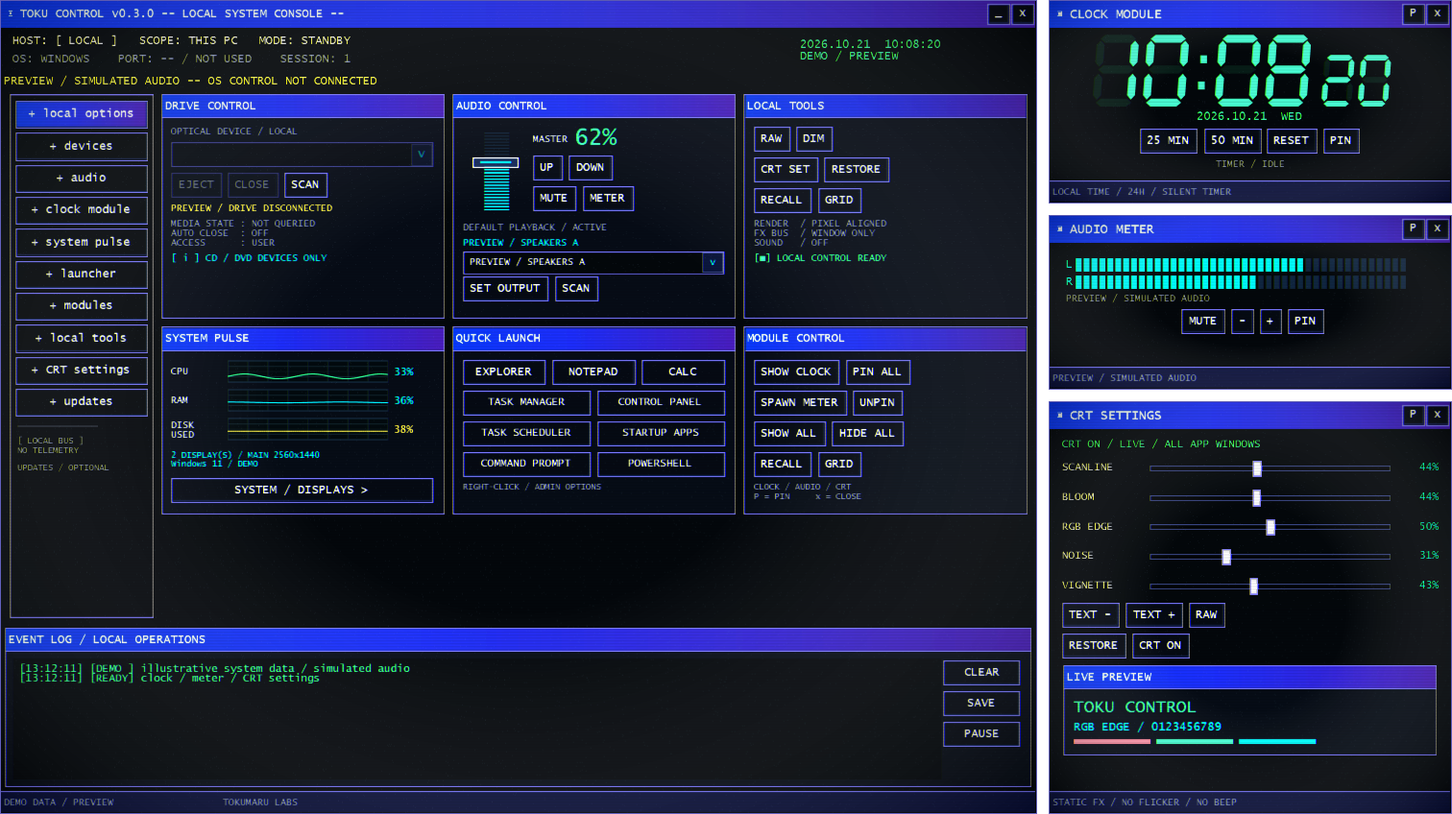
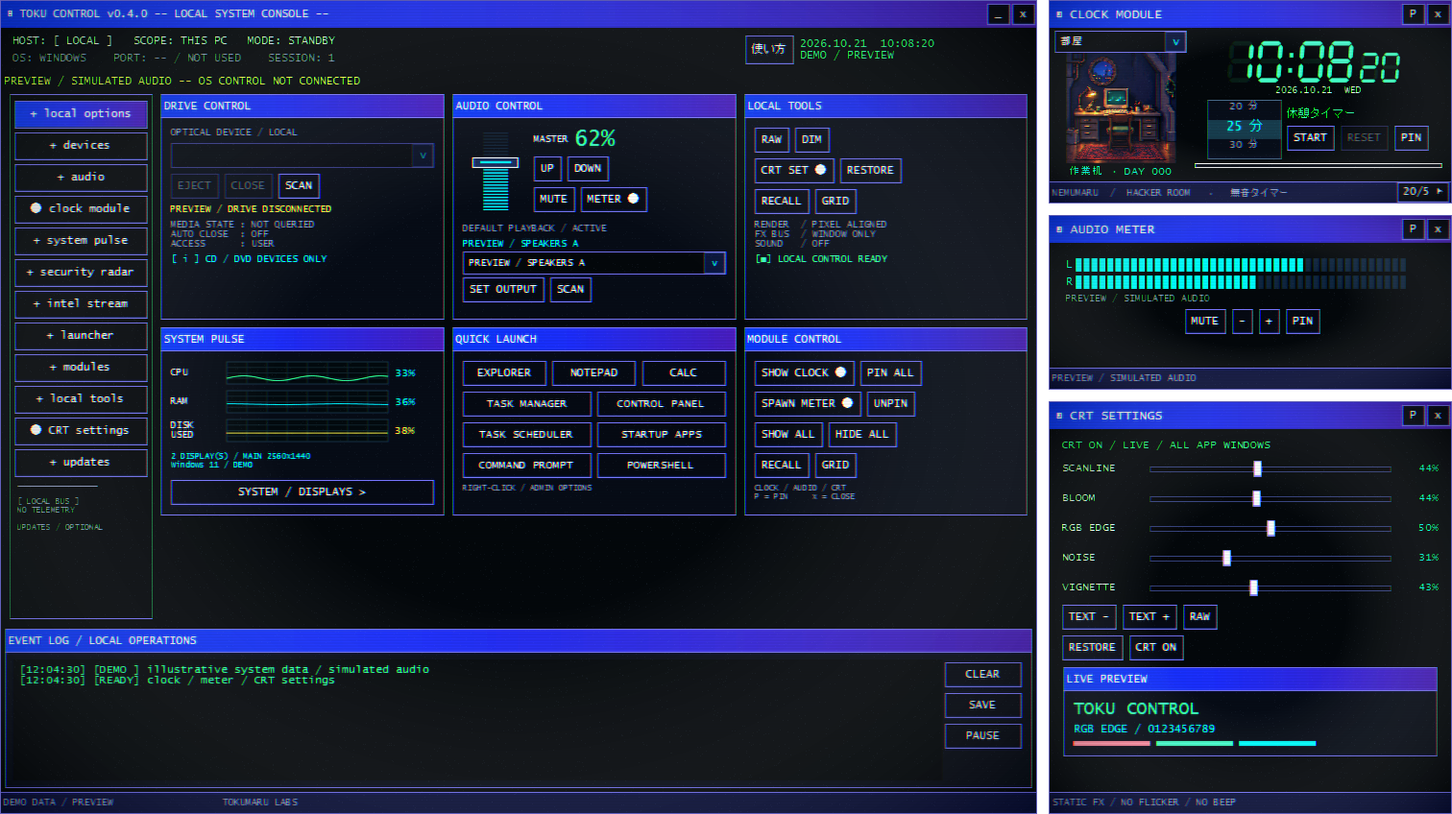
Feature the TOKU CONTROL v0.4.0 Windows release in English and Japanese

diff --git a/ja/toku-control/index.html b/ja/toku-control/index.html
@@ -29,8 +29,8 @@
   "name": "TOKU CONTROL",
   "applicationCategory": "UtilitiesApplication",
   "operatingSystem": "Windows x64",
-  "softwareVersion": "0.3.0",
-  "downloadUrl": "https://github.com/tokumaru-labs/toku-control/releases/download/v0.3.0/TOKU-CONTROL-v0.3.0-win-x64.zip",
+  "softwareVersion": "0.4.0",
+  "downloadUrl": "https://github.com/tokumaru-labs/toku-control/releases/download/v0.4.0/TOKU-CONTROL-v0.4.0-win-x64.zip",
   "license": "https://github.com/tokumaru-labs/toku-control/blob/main/LICENSE",
   "publisher": {
     "@type": "Organization",
@@ -45,32 +45,33 @@
 <main id="main"><article class="wrap wrap--wide control-page">
 <nav class="crumbs" aria-label="パンくずリスト"><a href="/ja/">Tokumaru Labs</a> / TOKU CONTROL</nav>
 <div class="seg" aria-hidden="true"><span></span><span></span><span></span><span></span></div>
-<header class="site-head"><p class="brand">TOKU CONTROL</p><h1 class="guide-title">デスクトップに、<br>小さな操作室を。</h1><p class="tagline">Windowsアプリ · v0.3.0 · 無料</p></header>
+<header class="site-head"><p class="brand">TOKU CONTROL</p><h1 class="guide-title">デスクトップに、<br>小さな操作室を。</h1><p class="tagline">Windowsアプリ · v0.4.0 · 無料</p></header>
 <p class="lead">音量・液晶時計・メーター・Windowsのシステム情報を、90年代風のローカル操作盤に。青いタイトルバーと緑の数字で、いつもの操作をまとめます。</p>
-<div class="page-actions"><a class="btn btn--primary" href="https://github.com/tokumaru-labs/toku-control/releases/download/v0.3.0/TOKU-CONTROL-v0.3.0-win-x64.zip">Windows版をダウンロード</a><a class="btn" href="#how-to">起動までの3ステップ</a></div>
-<p class="meta">Windows x64 · ZIP / 69.6 MB · .NET同梱 · Windows 11で検証</p><p class="lang-note">初期公開版のためコード署名はありません。Windowsに発行元不明と表示される場合があります。信頼できる配布元から取得してください。インストーラー・アカウントは不要で、本体は管理者権限なしで動きます。対応ツールの管理者起動を選んだ時だけ、WindowsのUACで確認します。</p>
+<div class="page-actions"><a class="btn btn--primary" href="https://github.com/tokumaru-labs/toku-control/releases/download/v0.4.0/TOKU-CONTROL-v0.4.0-win-x64.zip">Windows版をダウンロード</a><a class="btn" href="#how-to">起動までの3ステップ</a></div>
+<p class="meta">Windows x64 · ZIP / 72.1 MB · .NET同梱 · Windows 11で検証</p><p class="lang-note">この配布版はコード署名なしです。Windowsに発行元不明と表示される場合があります。信頼できる配布元から取得してください。インストーラー・アカウントは不要で、本体は管理者権限なしで動きます。対応ツールの管理者起動を選んだ時だけ、WindowsのUACで確認します。</p>
 <figure class="product-figure"><a href="/assets/products/toku-control/overview.png"><img class="shot" src="/assets/products/toku-control/overview.png" width="1512" height="848" decoding="async" alt="TOKU CONTROLのメイン画面と、右側に縦積みした時計・オーディオメーター・CRT設定。"></a><figcaption>実際のWPF画面をプレビューモードで描画。PC情報・音声の表示値は紹介用のデモです。</figcaption></figure>
 <h2 id="features">いつもの操作を、ひとつの場所に</h2><ul class="feature-list"><li><strong>再生音量と出力先：</strong>音量・ミュートを調整し、選んだ再生出力へ切り替えます。対応機器ではピークをL/Rで表示します。</li>
-<li><strong>液晶デジタル時計：</strong>太い時・分と小さな秒、日付、25/50分の無音タイマー。</li>
+<li><strong>液晶デジタル時計：</strong>5〜120分の休憩タイマーと、20分集中・5分休憩を繰り返す無音タイマー。「部屋」「TRACE 端末」「宵環曼荼羅」の3つから表示を選べます。</li>
 <li><strong>PCとモニター情報：</strong>CPU・RAMの履歴、ドライブ容量使用率、Windows・機器の情報、使用中モニターの解像度・Hz・拡大率など。</li>
-<li><strong>一緒に動く小窓：</strong>SHOW ALLでメイン右に3つの小窓を縦積み。メインのタイトルバーをつかむと、表示中の小窓も一緒に動きます。</li>
+<li><strong>一緒に動く小窓：</strong>SHOW ALLでメイン右に3つの小窓を縦積み。操作盤に接した小窓は一緒に動き、離して置いた小窓はその位置に残ります。</li>
 <li><strong>Quick Launch：</strong>既存の7項目にコマンド プロンプトとWindows標準搭載のWindows PowerShellを追加。両シェル・メモ帳・タスク マネージャー・タスク スケジューラは、右クリック（またはShift+F10）から<strong>「管理者として実行」</strong>を選べます。WindowsのUACで確認し、キャンセルしても本体は継続します。</li>
-<li><strong>アプリ内更新（v0.3.0）：</strong>新しい正式版があると「New version available」を表示。「YES / UPDATE」で取得・検証・更新・再起動、「LATER」で今回は見送れます。+ updatesから手動確認や起動時確認のOFFもできます。</li>
+<li><strong>アプリ内更新：</strong>新しい正式版があると「New version available」を表示。「YES / UPDATE」で取得・検証・更新・再起動、「LATER」で今回は見送れます。+ updatesから手動確認や起動時確認のOFFもできます。</li>
 <li><strong>調整できるCRT表現：</strong>走査線・発光・色ずれ・ノイズ・減光を即時調整。RAWで効果をOFFにできます。</li></ul>
-<h2>v0.3.0以降の開発状況</h2>
-<p>このページからダウンロードできるのはv0.3.0です。開発版のSecurity Radarでは、Windowsの状態や直近のDefender検出履歴を手動で確認できます。Intel Streamでは取得をオンにした配信元のニュースを読めます。休憩時計にはねむまるの部屋・TRACE端末・宵環曼荼羅と20分集中／5分休憩のタイマーが加わり、操作盤から離した小窓をその場に置けるようになりました。</p>
-<p>Security Radarの任意機能「Autorunsc」では、このPCの自動起動登録を2回分比較できます。保存済みCSVを開くか、Microsoftから別途入手したAutorunsc 14.3を選んで通常権限で1回取得します。<a href="https://github.com/tokumaru-labs/toku-control/pull/13">Autorunscの実装と検証</a> · <a href="https://github.com/tokumaru-labs/toku-control/pull/12">これまでに統合した変更</a></p>
-<h2 id="how-to">ダウンロードして、起動する</h2><ol class="guide-steps"><li><strong>Windows版ZIPを取得</strong>上のダウンロードボタンから取得できます。<a href="https://github.com/tokumaru-labs/toku-control/releases/tag/v0.3.0">リリースページ</a>には、照合用のSHA-256チェックサムとソースコードもあります。</li>
+<h2>Security Radar と Intel Stream</h2>
+<p><strong>Security Radar</strong> で「READ / REFRESH」を押すと、Windowsの保護状態や直近のMicrosoft Defender検出履歴、その根拠を確認できます。読み取った情報は端末内で表示します。</p>
+<p><strong>自動起動の比較</strong>では、保存済みCSVを開くか、Microsoftから別途入手したAutorunsc 14.3を自分で選んで通常権限で1回読み取ります。基準にした一覧と次の一覧を比べると、追加・削除・変更された項目が分かります。自動修復やVirusTotalへの送信は行いません。</p>
+<p><strong>Intel Stream</strong> は選んだ配信元の見出しを操作盤で読む機能です。オンライン取得は初期状態でオフです。</p>
+<h2 id="how-to">ダウンロードして、起動する</h2><ol class="guide-steps"><li><strong>Windows版ZIPを取得</strong>上のダウンロードボタンから取得できます。<a href="https://github.com/tokumaru-labs/toku-control/releases/tag/v0.4.0">リリースページ</a>には、照合用のSHA-256チェックサムとソースコードもあります。</li>
 <li><strong>ZIPをすべて展開</strong>一番上のTokuControl.exe・Update.exe・currentフォルダーなど、展開したファイル一式を保持してください。</li>
 <li><strong>一番上のTokuControl.exeを起動</strong>SHOW ALLで小窓を整列。出力先は選択後にSET OUTPUTで切り替えます。メインの×で全体を終了します。</li></ol>
 <figure class="product-figure"><a href="/assets/products/toku-control/system.png"><img class="shot" src="/assets/products/toku-control/system.png" width="1080" height="848" loading="lazy" decoding="async" alt="Windows・CPU・メモリーなどのPC情報と、2台のモニター情報を並べたデモ画面。"></a><figcaption>SYSTEM PULSE → SYSTEM / DISPLAYSで詳細を表示。モニターを変更した後はREFRESH INFOで再取得します。</figcaption></figure>
-<h2>以前の版からの更新</h2><p>v0.2.3以前からは、最初の1回だけこのZIPを新しいフォルダーへ展開し、一番上のEXEを起動してください。設定は引き継がれ、次回以降はアプリ内から更新できます。書き込み可能なローカルフォルダーを使い、更新前に他のTOKU CONTROLを終了してください。個人ファイルはcurrentフォルダーへ入れないでください。取得中はCANCELで中止でき、通信・検証に失敗しても現在の版を継続できます。</p>
+<h2>以前の版からの更新</h2><p>v0.3.0を使っている場合は「+ updates」で更新を確認し、「YES / UPDATE」を選ぶと設定を引き継いで再起動します。v0.2.3以前からは、最初の1回だけこのZIPを新しいフォルダーへ展開し、一番上のEXEを起動してください。設定は引き継がれ、次回以降はアプリ内から更新できます。書き込み可能なローカルフォルダーを使い、更新前に他のTOKU CONTROLを終了してください。個人ファイルはcurrentフォルダーへ入れないでください。取得中はCANCELで中止でき、通信・検証に失敗しても現在の版を継続できます。</p>
 <h2>使う前に知っておきたいこと</h2><ul class="feature-list"><li>標準配置は全体で約1512×848論理ピクセル。Windowsの拡大率により必要な物理サイズが変わり、メインの横幅は縮められます。画面に収まらない場合は小窓を個別に使えます。</li>
 <li>出力切替は通常再生用の既定出力が対象です。マイク・通話用・アプリ別の出力設定は変更しません。Windowsの非公開インターフェースを使用するため、更新や環境によって互換性が変わる場合があります。</li>
 <li>メーターは再生ピークの表示で、アプリ別ミキサーや周波数スペクトラムではありません。DISK USEDは容量使用率です。</li>
 <li>光学ドライブのトレイを閉じる操作は機種依存です。倍率の異なるモニター間の移動や、Windowsのスナップ・最大化を伴うドラッグは十分な検証ができていません。</li></ul>
-<h2 id="privacy">ローカル保存とソースコード</h2><p>アカウント・遠隔操作サーバー・アプリ独自の解析通信はありません。更新確認のため、初期状態では起動時に公開GitHubリポジトリへHTTPSで接続します。+ updatesからOFFにでき、ダウンロードはYesを押した時だけ行います。GitHubにはIPアドレスなど通常の接続情報が伝わりますが、機器情報・音声データ・設定は送信しません。設定は端末内の <code>%LOCALAPPDATA%\TokumaruLabs\TokuControl\settings.json</code> に保存します。操作ログはSAVEを選んだ時だけ書き出します。更新プログラムはローカルに診断ログを保存しますが、自動送信しません。Windows/.NETのエラー報告はOS設定と提供元の条件に従います。</p><p>Windowsに反映した音量・ミュート・出力先は、アプリを終了しても維持されます。見た目と位置を初期化するには、終了後にsettings.jsonを別の場所へ移してください。アプリの削除は終了後に展開フォルダーを削除します。</p><p>本体はGPL-3.0-onlyで公開している無料ソフトウェアです。同梱するMicrosoft .NETとのリンクに限定した追加許諾があり、ランタイムは提供元の条件を維持します。</p>
-<div class="page-actions"><a class="btn btn--primary" href="https://github.com/tokumaru-labs/toku-control/releases/download/v0.3.0/TOKU-CONTROL-v0.3.0-win-x64.zip">Windows版をダウンロード</a><a class="btn" href="https://github.com/tokumaru-labs/toku-control/releases/tag/v0.3.0">リリース情報・チェックサム</a><a class="btn" href="https://github.com/tokumaru-labs/toku-control">ソースコード・説明書</a><a class="btn" href="https://github.com/tokumaru-labs/toku-control/blob/main/THIRD-PARTY.md">ライセンスの詳細</a></div>
+<h2 id="privacy">ローカル保存とソースコード</h2><p>アカウント・遠隔操作サーバー・アプリ独自の解析通信はありません。更新確認のため、初期状態では起動時に公開GitHubリポジトリへHTTPSで接続します。+ updatesからOFFにでき、更新ファイルは「YES / UPDATE」を選んだ時に取得します。Intel Streamでオンライン取得を有効にすると、選択した配信元にも接続します。GitHubにはIPアドレスなど通常の接続情報が伝わりますが、機器情報・音声データ・設定は送信しません。設定は端末内の <code>%LOCALAPPDATA%\TokumaruLabs\TokuControl\settings.json</code> に保存します。操作ログはSAVEを選んだ時だけ書き出します。更新プログラムはローカルに診断ログを保存しますが、自動送信しません。Windows/.NETのエラー報告はOS設定と提供元の条件に従います。</p><p>Windowsに反映した音量・ミュート・出力先は、アプリを終了しても維持されます。見た目と位置を初期化するには、終了後にsettings.jsonを別の場所へ移してください。アプリの削除は終了後に展開フォルダーを削除します。</p><p>本体はGPL-3.0-onlyで公開している無料ソフトウェアです。同梱するMicrosoft .NETとのリンクに限定した追加許諾があり、ランタイムは提供元の条件を維持します。</p>
+<div class="page-actions"><a class="btn btn--primary" href="https://github.com/tokumaru-labs/toku-control/releases/download/v0.4.0/TOKU-CONTROL-v0.4.0-win-x64.zip">Windows版をダウンロード</a><a class="btn" href="https://github.com/tokumaru-labs/toku-control/releases/tag/v0.4.0">リリース情報・チェックサム</a><a class="btn" href="https://github.com/tokumaru-labs/toku-control">ソースコード・説明書</a><a class="btn" href="https://github.com/tokumaru-labs/toku-control/blob/main/THIRD-PARTY.md">ライセンスの詳細</a></div>
 <footer><p>© 2026 Tokumaru Labs · このサイトはアクセス解析・トラッキング・Cookieを使用しません。</p><a href="/ja/#products">ツール一覧</a></footer>
 </article></main>
 </body>

diff --git a/toku-control/index.html b/toku-control/index.html
@@ -29,8 +29,8 @@
   "name": "TOKU CONTROL",
   "applicationCategory": "UtilitiesApplication",
   "operatingSystem": "Windows x64",
-  "softwareVersion": "0.3.0",
-  "downloadUrl": "https://github.com/tokumaru-labs/toku-control/releases/download/v0.3.0/TOKU-CONTROL-v0.3.0-win-x64.zip",
+  "softwareVersion": "0.4.0",
+  "downloadUrl": "https://github.com/tokumaru-labs/toku-control/releases/download/v0.4.0/TOKU-CONTROL-v0.4.0-win-x64.zip",
   "license": "https://github.com/tokumaru-labs/toku-control/blob/main/LICENSE",
   "publisher": {
     "@type": "Organization",
@@ -45,32 +45,33 @@
 <main id="main"><article class="wrap wrap--wide control-page">
 <nav class="crumbs" aria-label="Breadcrumb"><a href="/">Tokumaru Labs</a> / TOKU CONTROL</nav>
 <div class="seg" aria-hidden="true"><span></span><span></span><span></span><span></span></div>
-<header class="site-head"><p class="brand">TOKU CONTROL</p><h1 class="guide-title">A little control room<br>for your desktop.</h1><p class="tagline">Windows app · v0.3.0 · Free</p></header>
+<header class="site-head"><p class="brand">TOKU CONTROL</p><h1 class="guide-title">A little control room<br>for your desktop.</h1><p class="tagline">Windows app · v0.4.0 · Free</p></header>
 <p class="lead">Playback audio, an LCD clock, peak meters, and your Windows system and monitor information — together in a 1990s-style local console.</p>
-<div class="page-actions"><a class="btn btn--primary" href="https://github.com/tokumaru-labs/toku-control/releases/download/v0.3.0/TOKU-CONTROL-v0.3.0-win-x64.zip">Download for Windows (ZIP)</a><a class="btn" href="#how-to">How to start</a></div>
-<p class="meta">Windows x64 · 69.6 MB · .NET included · Tested on Windows 11</p><p class="lang-note">This early release is unsigned. Windows may show an unknown-publisher warning. Download from a source you trust. No installer or account is required. TOKU CONTROL runs without administrator privileges; optional administrator launches for supported tools use Windows UAC.</p>
+<div class="page-actions"><a class="btn btn--primary" href="https://github.com/tokumaru-labs/toku-control/releases/download/v0.4.0/TOKU-CONTROL-v0.4.0-win-x64.zip">Download for Windows (ZIP)</a><a class="btn" href="#how-to">How to start</a></div>
+<p class="meta">Windows x64 · 72.1 MB · .NET included · Tested on Windows 11</p><p class="lang-note">This release is unsigned. Windows may show an unknown-publisher warning. Download from a source you trust. No installer or account is required. TOKU CONTROL runs without administrator privileges; optional administrator launches for supported tools use Windows UAC.</p>
 <figure class="product-figure"><a href="/assets/products/toku-control/overview.png"><img class="shot" src="/assets/products/toku-control/overview.png" width="1512" height="848" decoding="async" alt="TOKU CONTROL with its main console on the left and clock, audio meter and CRT settings stacked on the right."></a><figcaption>Actual WPF rendering in preview mode. System and audio values are illustrative demo data.</figcaption></figure>
 <h2 id="features">Your everyday controls, in one place</h2><ul class="feature-list"><li><strong>Playback audio:</strong> adjust volume, mute, and explicitly switch the default playback output. The peak meter shows L/R where the device supports it.</li>
-<li><strong>LCD clock:</strong> bold hours and minutes, small seconds, the date, and silent 25/50-minute timers.</li>
+<li><strong>LCD clock:</strong> set a 5–120 minute break or alternate 20 minutes of focus with 5 minutes of rest. Choose the Nemumaru room, TRACE terminal or mandala theme.</li>
 <li><strong>System and displays:</strong> CPU/RAM history, drive capacity use, Windows and hardware details, and active monitor resolution, refresh rate and scale.</li>
-<li><strong>Small windows that move together:</strong> SHOW ALL stacks the three modules beside the main window. Drag the main title bar to move visible modules with it.</li>
+<li><strong>Small windows that move together:</strong> SHOW ALL stacks the three modules beside the main window. Drag the main title bar to move adjacent modules with it. Detached modules stay where you put them.</li>
 <li><strong>Quick Launch:</strong> Command Prompt and built-in Windows PowerShell join the seven existing shortcuts. Right-click a shell, Notepad, Task Manager or Task Scheduler (or press Shift+F10) and choose <strong>Run as administrator</strong> when needed. Windows handles UAC; cancelling keeps the console running.</li>
-<li><strong>In-app updates (v0.3.0):</strong> A new stable version shows “New version available”. Choose YES / UPDATE to download, verify, update and restart, or LATER to keep working. Use + updates for manual checks and to turn startup checks off.</li>
+<li><strong>In-app updates:</strong> A new stable version shows “New version available”. Choose YES / UPDATE to download, verify, update and restart, or LATER to keep working. Use + updates for manual checks and to turn startup checks off.</li>
 <li><strong>CRT character:</strong> adjust scanlines, bloom, RGB edge, noise and vignette live. RAW turns the effects off.</li></ul>
-<h2>In development after v0.3.0</h2>
-<p>The downloadable ZIP above contains v0.3.0. In the development source, Security Radar lets you inspect local Windows evidence and recent Defender detections. Intel Stream reads selected news feeds when enabled. The rest clock adds the Nemumaru room, TRACE, mandala and a 20/5 timer, and detached module windows can stay in place.</p>
-<p>In Security Radar, the optional Autorunsc view compares two local startup inventories. Open a saved CSV or manually select Microsoft’s separately supplied Autorunsc 14.3. Collection uses your normal account. <a href="https://github.com/tokumaru-labs/toku-control/pull/13">Autorunsc implementation and checks</a> · <a href="https://github.com/tokumaru-labs/toku-control/pull/12">Earlier development changes</a></p>
-<h2 id="how-to">Download, extract, start</h2><ol class="guide-steps"><li><strong>Download the Windows ZIP</strong>Use the download button above. The release also includes a <a href="https://github.com/tokumaru-labs/toku-control/releases/tag/v0.3.0">SHA-256 checksum</a> and matching application source.</li>
+<h2>Security Radar and Intel Stream</h2>
+<p>Open <strong>Security Radar</strong> and choose READ / REFRESH to inspect Windows protection status, recent Microsoft Defender detections and the evidence behind each observation. The results are displayed on your PC.</p>
+<p>To <strong>compare startup entries</strong>, open a saved CSV or manually select Microsoft’s separately supplied Autorunsc 14.3 for a one-time read under your normal account. Compare a reference with a second inventory to see added, removed and changed entries. The app performs no automatic repair or VirusTotal submission.</p>
+<p><strong>Intel Stream</strong> displays headlines from feeds you select. Online retrieval is off by default.</p>
+<h2 id="how-to">Download, extract, start</h2><ol class="guide-steps"><li><strong>Download the Windows ZIP</strong>Use the download button above. The release also includes a <a href="https://github.com/tokumaru-labs/toku-control/releases/tag/v0.4.0">SHA-256 checksum</a> and matching application source.</li>
 <li><strong>Extract the entire ZIP</strong>Keep the top-level TokuControl.exe, Update.exe, current folder and all other extracted files together.</li>
 <li><strong>Run the top-level TokuControl.exe</strong>Use SHOW ALL to arrange the modules. Select an audio output, then press SET OUTPUT to change it. Closing the main window closes the application.</li></ol>
 <figure class="product-figure"><a href="/assets/products/toku-control/system.png"><img class="shot" src="/assets/products/toku-control/system.png" width="1080" height="848" loading="lazy" decoding="async" alt="The system panel showing demo Windows, CPU and memory information beside two example monitors."></a><figcaption>Open SYSTEM PULSE → SYSTEM / DISPLAYS for the details. Use REFRESH INFO after changing monitors.</figcaption></figure>
-<h2>Updating from an older version</h2><p>Version 0.2.3 and earlier need a one-time manual move: extract this ZIP into a new folder and start the top-level EXE. Your settings carry over; future releases can be installed from the app. Use a writable local folder, close other copies of TOKU CONTROL before updating, and keep personal files outside current/. You can cancel during download; a connection or checksum failure leaves the current version in place.</p>
+<h2>Updating from an older version</h2><p>From v0.3.0, open + updates, check for a release and choose YES / UPDATE. The app restarts with your settings. Version 0.2.3 and earlier need a one-time manual move: extract this ZIP into a new folder and start the top-level EXE. Your settings carry over; future releases can be installed from the app. Use a writable local folder, close other copies of TOKU CONTROL before updating, and keep personal files outside current/. You can cancel during download; a connection or checksum failure leaves the current version in place.</p>
 <h2>A few things to know</h2><ul class="feature-list"><li>The standard full arrangement is about 1512 × 848 logical pixels. Windows scaling affects the physical space needed; the main window can shrink in width. If there is not enough room, use modules individually.</li>
 <li>Output switching changes the regular playback defaults, not the microphone, Communications default or per-app output overrides. It uses an undocumented Windows interface, so compatibility may change with Windows updates.</li>
 <li>The audio meter is a peak meter, not a per-app mixer or a spectrum analyzer. DISK USED is storage capacity use, not disk activity.</li>
 <li>Optical-drive tray closing depends on the hardware. Mixed-DPI monitor moves and Windows snap/maximize dragging have not been exhaustively tested.</li></ul>
-<h2 id="privacy">Local settings and source</h2><p>The application has no accounts, remote-control server or application analytics. Update checks contact the public GitHub repository over HTTPS on startup by default; turn them off in + updates. Downloads start only after Yes. GitHub receives normal connection information such as your IP address; device/audio data and settings are not uploaded. Its settings stay in <code>%LOCALAPPDATA%\TokumaruLabs\TokuControl\settings.json</code>. Operation logs are exported only when you choose SAVE. The updater also writes local diagnostic logs without uploading them. Windows/.NET error reporting follows your OS settings and vendor terms.</p><p>Volume, mute and default-output changes remain in Windows after the app exits. To reset appearance and positions, exit and move settings.json aside. To remove the app, exit and remove the extracted folder.</p><p>Free software under GPL-3.0-only, with a limited permission for the bundled Microsoft .NET runtime. The runtime retains its own license terms.</p>
-<div class="page-actions"><a class="btn btn--primary" href="https://github.com/tokumaru-labs/toku-control/releases/download/v0.3.0/TOKU-CONTROL-v0.3.0-win-x64.zip">Download for Windows (ZIP)</a><a class="btn" href="https://github.com/tokumaru-labs/toku-control/releases/tag/v0.3.0">Release notes &amp; checksum</a><a class="btn" href="https://github.com/tokumaru-labs/toku-control">Source &amp; guide</a><a class="btn" href="https://github.com/tokumaru-labs/toku-control/blob/main/THIRD-PARTY.md">License details</a></div>
+<h2 id="privacy">Local settings and source</h2><p>The application has no accounts, remote-control server or application analytics. Update checks contact the public GitHub repository over HTTPS on startup by default; turn them off in + updates. Update downloads start after YES / UPDATE. Enabling online retrieval in Intel Stream also connects to feeds you select. GitHub receives normal connection information such as your IP address; device/audio data and settings are not uploaded. Its settings stay in <code>%LOCALAPPDATA%\TokumaruLabs\TokuControl\settings.json</code>. Operation logs are exported only when you choose SAVE. The updater also writes local diagnostic logs without uploading them. Windows/.NET error reporting follows your OS settings and vendor terms.</p><p>Volume, mute and default-output changes remain in Windows after the app exits. To reset appearance and positions, exit and move settings.json aside. To remove the app, exit and remove the extracted folder.</p><p>Free software under GPL-3.0-only, with a limited permission for the bundled Microsoft .NET runtime. The runtime retains its own license terms.</p>
+<div class="page-actions"><a class="btn btn--primary" href="https://github.com/tokumaru-labs/toku-control/releases/download/v0.4.0/TOKU-CONTROL-v0.4.0-win-x64.zip">Download for Windows (ZIP)</a><a class="btn" href="https://github.com/tokumaru-labs/toku-control/releases/tag/v0.4.0">Release notes &amp; checksum</a><a class="btn" href="https://github.com/tokumaru-labs/toku-control">Source &amp; guide</a><a class="btn" href="https://github.com/tokumaru-labs/toku-control/blob/main/THIRD-PARTY.md">License details</a></div>
 <footer><p>© 2026 Tokumaru Labs · No analytics, no tracking, no cookies.</p><a href="/#products">Products</a></footer>
 </article></main>
 </body>

diff --git a/index.html b/index.html
@@ -106,15 +106,15 @@
                    alt="TOKU CONTROL's CRT-style console with a digital clock, audio meter and CRT settings stacked on the right. Demo data.">
             </div>
             <div class="pcard__body">
-              <p class="pcard__kind">Windows App · v0.3.0 · Free</p>
+              <p class="pcard__kind">Windows App · v0.4.0 · Free</p>
               <h4 class="pcard__title"><a href="/toku-control/">TOKU CONTROL</a></h4>
-              <p class="pcard__desc">A 1990s-style local control console for playback audio, an LCD clock, peak meters, and Windows system and monitor information.</p>
-              <p class="pcard__desc-ja" lang="ja">音量・時計・システム情報を、90年代風の操作盤に。右の小窓もメインと一緒に動きます。</p>
+              <p class="pcard__desc">Control audio, start a quiet focus timer, or inspect Windows security events from a CRT-style desktop console.</p>
+              <p class="pcard__desc-ja" lang="ja">音量、集中と休憩の時計、Windowsのセキュリティ履歴をひとつの操作盤に。</p>
               <div class="pcard__actions">
-                <a class="btn btn--primary" href="https://github.com/tokumaru-labs/toku-control/releases/download/v0.3.0/TOKU-CONTROL-v0.3.0-win-x64.zip">Download for Windows (ZIP)</a>
+                <a class="btn btn--primary" href="https://github.com/tokumaru-labs/toku-control/releases/download/v0.4.0/TOKU-CONTROL-v0.4.0-win-x64.zip">Download for Windows (ZIP)</a>
                 <a class="btn" href="/toku-control/">Overview &amp; setup</a>
               </div>
-              <p class="meta">Windows x64 · 69.6 MB · Unsigned portable build</p>
+              <p class="meta">Windows x64 · 72.1 MB · Unsigned portable build</p>
             </div>
           </article>
 

diff --git a/ja/index.html b/ja/index.html
@@ -105,14 +105,14 @@
                    alt="メインの右に時計・メーター・CRT設定を縦積みしたTOKU CONTROLの画面。表示値はデモです。">
             </div>
             <div class="pcard__body">
-              <p class="pcard__kind">Windowsアプリ · v0.3.0 · 無料</p>
+              <p class="pcard__kind">Windowsアプリ · v0.4.0 · 無料</p>
               <h4 class="pcard__title"><a href="/ja/toku-control/">TOKU CONTROL</a></h4>
-              <p class="pcard__desc">音量・デジタル時計・システム情報を、90年代風のローカル操作盤に。モニターの情報も確認でき、右の小窓はメインと一緒に動きます。</p>
+              <p class="pcard__desc">音量の調整も、20分集中・5分休憩の時計も、90年代風の操作盤から。Security RadarではWindowsのセキュリティ履歴を手元で確認できます。</p>
               <div class="pcard__actions">
-                <a class="btn btn--primary" href="https://github.com/tokumaru-labs/toku-control/releases/download/v0.3.0/TOKU-CONTROL-v0.3.0-win-x64.zip">Windows版をダウンロード</a>
+                <a class="btn btn--primary" href="https://github.com/tokumaru-labs/toku-control/releases/download/v0.4.0/TOKU-CONTROL-v0.4.0-win-x64.zip">Windows版をダウンロード</a>
                 <a class="btn" href="/ja/toku-control/">見た目と使い方</a>
               </div>
-              <p class="meta">Windows x64 · ZIP / 69.6 MB · コード署名なし</p>
+              <p class="meta">Windows x64 · ZIP / 72.1 MB · コード署名なし</p>
             </div>
           </article>
 
